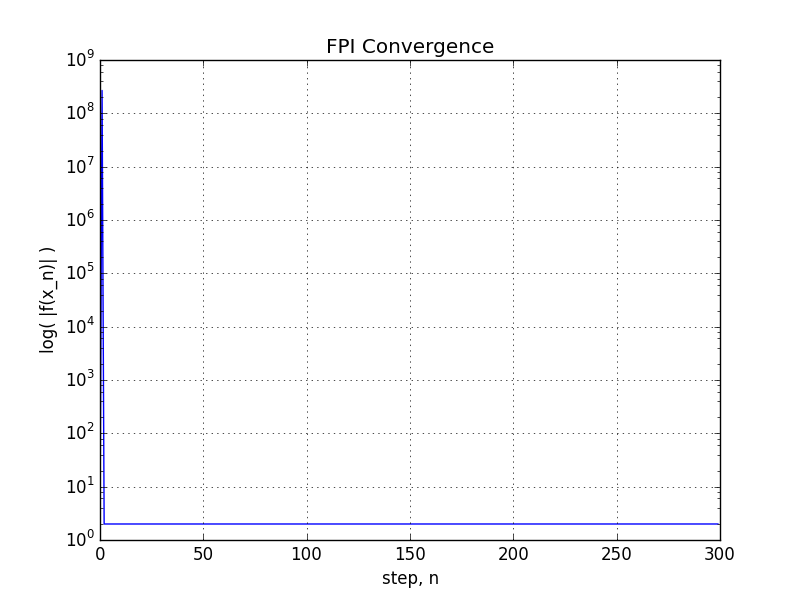
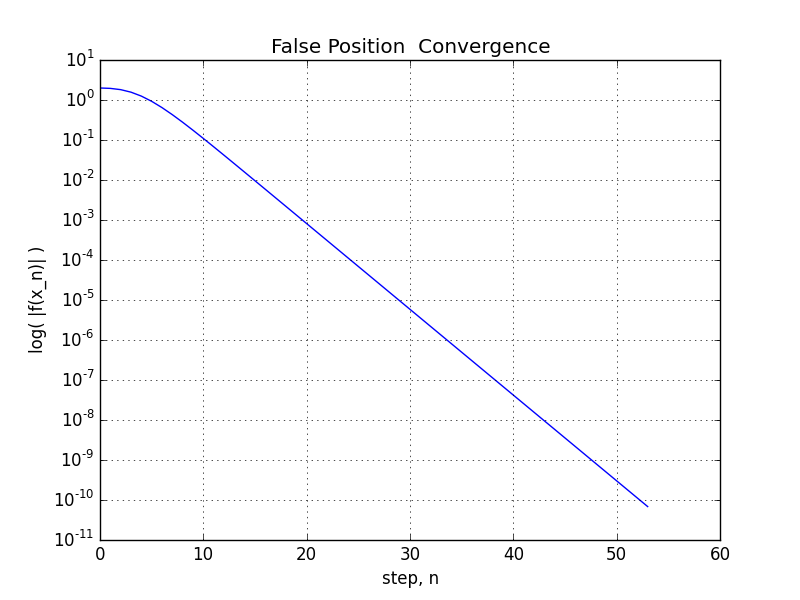
Add solutions to HW1

diff --git a/Homeworks/HW1/Problem9.py b/Homeworks/HW1/Problem9.py
@@ -6,24 +6,77 @@ rc('text', usetex=True)
 
 
 
-def func(nu, T):
+def func1(nu, T):
   return (8*math.pi*nu**2*T)
 
+def func2(lam, T):
+  return (8*math.pi*T/(lam**4))
 f = []
-f.append( [ func(i/100,  500) for i in range(-100,100) ] )
-f.append( [ func(i/100, 1000) for i in range(-100,100) ] )
-f.append( [ func(i/100, 2000) for i in range(-100,100) ] )
-x = [ i/100 for i in range(-100,100) ]
+f.append( [ func1(i/100000,  500) for i in range(0,1000) ] )
+f.append( [ func1(i/100000, 1000) for i in range(0,1000) ] )
+f.append( [ func1(i/100000, 5000) for i in range(0,1000) ] )
+x = [ i/100000 for i in range(0,1000) ]
 
 plt.plot(x, f[0], label='T=500K')
 plt.plot(x, f[1], label='T=1000K')
-plt.plot(x, f[2], label='T=2000K')
+plt.plot(x, f[2], label='T=5000K')
 plt.legend()
-plt.ylabel(r'$\frac{dU}{d\nu}\frac{c^3}{k_b}$', fontsize=22)
+plt.ylabel(r'$\frac{dU}{d\nu}\frac{c^3}{k_B}$', fontsize=22)
 plt.xlabel(r'$\nu$')
 plt.title(r'Rayleigh-Jeans Law ($\nu$)', fontsize=24)
 plt.savefig('Problem9a.png')
+#plt.show()
+
+plt.close()
+
+
+f = []
+f.append( [ func2(i/100000,  500) for i in range(1,1000) ] )
+f.append( [ func2(i/100000, 1000) for i in range(1,1000) ] )
+f.append( [ func2(i/100000, 5000) for i in range(1,1000) ] )
+x = [ i/100000 for i in range(1,1000) ]
+
+plt.plot(x, f[0], label='T=500K')
+plt.plot(x, f[1], label='T=1000K')
+plt.plot(x, f[2], label='T=5000K')
+plt.legend()
+plt.ylabel(r'$log(\frac{dU}{d\lambda}\frac{1}{k_B})$', fontsize=22)
+plt.xlabel(r'$\nu$')
+plt.title(r'Rayleigh-Jeans Law ($\lambda$)', fontsize=24)
+plt.gca().set_yscale('log')
+plt.savefig('Problem9b.png')
+#plt.show()
+
+
+def func(x):
+  a = 0.01997575149
+  T = 1000
+  return -a*(8*math.pi)*(T/1000)**3*(math.exp(x)*(x-3)+3)*x**2/((math.exp(x)-1)**2)
+
+def secant(a, b, thresh, max_step, f):
+  itr = []
+  diffs = []
+  x_old = a 
+  x_new = b
+  x_old_val = f(x_old)
+  x_new_val = f(x_new)
+  for i in range(max_step):
+    dx = (x_old - x_new) * x_new_val / ( x_new_val - x_old_val )
+    x_old = x_new
+    x_old_val = x_new_val
+    x_new += dx
+    x_new_val = f(x_new)
+    itr.append(i)
+    diffs.append(abs(x_new_val))
+    if( abs(x_new_val) < thresh):
+      return x_new, itr, diffs
+  return x_new, itr, diffs
+
+x, itr, diffs = secant(1, 10, 10e-10, 100, func)
+print(x, len(itr))
+
+x = [ i/100 for i in range(1,10000) ]
+fx = [ func(i/100) for i in range(1,10000) ]
+plt.close()
+plt.plot(x,fx)
 plt.show()
-
-
-

diff --git a/Homeworks/HW1/Problem4c.py b/Homeworks/HW1/Problem4c.py
@@ -1,7 +1,6 @@
 import matplotlib.pyplot as plt
 def func(x):
   return x**4 - 2
-
 def false_position(a, b, thresh, max_step, f):
   itr = []
   diffs = []
@@ -10,7 +9,7 @@ def false_position(a, b, thresh, max_step, f):
   val1 = f(x1)
   val2 = f(x2)
   # Swap values
-  if( val1 < 0 ):
+  if( val1 > 0 ):
     x1, x2, val1, val2 = x2, x1, val2, val1
   for i in range(max_step):
     x_new = x1 + (x2 - x1)*val1/(val1 - val2)
@@ -25,15 +24,14 @@ def false_position(a, b, thresh, max_step, f):
     else:
       x2 = x_new
       val2 = val_new
-
   return x_new, itr, diffs
-
-x, itr, diffs = false_position( 0, 2, 10-10, 300, func)
+x, itr, diffs = false_position( 0, 2, 1e-10, 300, func)
+print(x)
 print(len(itr))
 plt.plot(itr, diffs)
 plt.gca().set_yscale('log')
 plt.grid()
-plt.title('FPI Convergence')
+plt.title('False Position  Convergence')
 plt.ylabel('log( |f(x_n)| )')
 plt.xlabel('step, n')
 plt.savefig('Problem4c.png')

diff --git a/Homeworks/HW1/Problem6.py b/Homeworks/HW1/Problem6.py
@@ -1,0 +1,23 @@
+import matplotlib.pyplot as plt
+from matplotlib import rc
+rc('font',**{'family':'sans-serif','sans-serif':['Helvetica']})
+rc('text', usetex=True)
+
+def omega(x,k, A, B, C):
+  return (k)/(A*x**2+B*x+C)
+
+x = [ i/2000 for i in range(0,1000) ]
+fx1 = [ (omega(i/2000, 1, 1, 1.5, -0.25) - omega(i/2000, 1, 4, -6.4, 1.5)) \
+      for i in range(0,1000) ]
+fx2 = [ 1/(omega(i/2000, 1, 1, 1.5, -0.25) - omega(i/2000, 1, 4, -6.4, 1.5)) \
+      for i in range(0,1000) ]
+
+plt.plot(x,fx1, label=r'\Omega_1-\Omega_2')
+plt.plot(x, fx2, label=r'(\Omega_1-\Omega_2)^{-1}')
+plt.ylabel(r'\Omega_1 - \Omega_2', fontsize=24)
+plt.xlabel(r'x', fontsize=24)
+plt.grid()
+plt.legend()
+plt.ylim([-100, 100])
+plt.savefig('Problem6a.png')
+plt.show()

diff --git a/Homeworks/HW1/Problem7.py b/Homeworks/HW1/Problem7.py
@@ -1,0 +1,29 @@
+import math
+def expand(x,thresh):
+  # First term is 1
+  approx = 1.0
+  last_term = 1.0
+  for n in range(0,100):
+    new_term = last_term*3*x/(n+1)
+    approx += new_term
+    #if(abs(new_term - last_term) < thresh):
+    if(abs(new_term-last_term) < thresh):
+      break
+    last_term = new_term
+  print('terms: '+str(n), 'value: '+str(approx))
+  return approx
+
+print('Until relative error is less than 10^-15')
+print('x = 2')
+expand(2, 1e-15)
+print('x = -2')
+expand(-2, 1e-15)
+print('x = -12')
+expand(-12, 1e-15)
+print('Until relative error is less than 10^-15')
+print('x = 2')
+expand(2, 1e-15)
+print('x = -2')
+expand(-2, 1e-15)
+print('x = -12')
+expand(-12, 1e-15)

diff --git a/Homeworks/HW1/Problem4a.py b/Homeworks/HW1/Problem4a.py
@@ -1,5 +1,4 @@
 import matplotlib.pyplot as plt
-
 def func(x):
   return x**4-2
 def bisection(a, b,thresh, max_step, f):
@@ -9,7 +8,6 @@ def bisection(a, b,thresh, max_step, f):
   x2 = b
   x1_val = f(x1)
   x2_val = f(x2)
-  # Keep x1 on the left
   if( x1_val < 0):
     x1, x2 = x1_val, x2_val
   else:
@@ -24,7 +22,6 @@ def bisection(a, b,thresh, max_step, f):
     diffs.append(abs(fval))
     # Get out if our guess is good enough
     if(abs(fval) < thresh):
-      #print("Iteration: "+str(i)+"\nMidpoint: "+str(fval)+"\nDifference: "+str(dx))
       return mid, itr, diffs
     # Assign midpoint
     x1 = x1 if (fval > 0) else mid

diff --git a/Homeworks/HW1/Problem4b.py b/Homeworks/HW1/Problem4b.py
@@ -1,8 +1,6 @@
 import matplotlib.pyplot as plt
-
 def func(x):
   return x**4 - 2
-
 def secant(a, b, thresh, max_step, f):
   itr = []
   diffs = []
@@ -21,9 +19,9 @@ def secant(a, b, thresh, max_step, f):
     if( abs(x_new_val) < thresh):
       return x_new, itr, diffs
   return x_new, itr, diffs
+x, itr, diffs = secant(0, 2, 1e-10, 100, func)
 
-x, itr, diffs = secant(0, 2, 10e-10, 100, func)
-
+print(x)
 plt.plot(itr, diffs)
 plt.gca().set_yscale('log')
 plt.grid()
